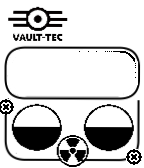
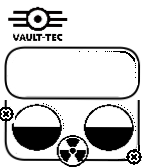
Design improvements

Changed region(s): [[0.0, 0.5655, 0.1111, 0.744], [0.9444, 0.5952, 0.9722, 0.9226], [0.8333, 0.9226, 0.8889, 0.9821]]

diff --git a/src/c/pebble-vault.c b/src/c/pebble-vault.c
@@ -240,19 +240,19 @@ static void metal_effect_layer_update(Layer *layer, GContext *ctx) {
     
     switch(pattern) {
       case 0:
-        color = GColorLightGray;
+        color = GColorWhite;
         break;
       case 1:
         color = GColorWhite;
         break;
       case 2:
-        color = GColorLightGray;
+        color = GColorWhite;
         break;
       case 3:
-        color = GColorDarkGray;
+        color = GColorBlack;
         break;
       default:
-        color = GColorLightGray;
+        color = GColorWhite;
     }
     
     graphics_context_set_stroke_color(ctx, color);
